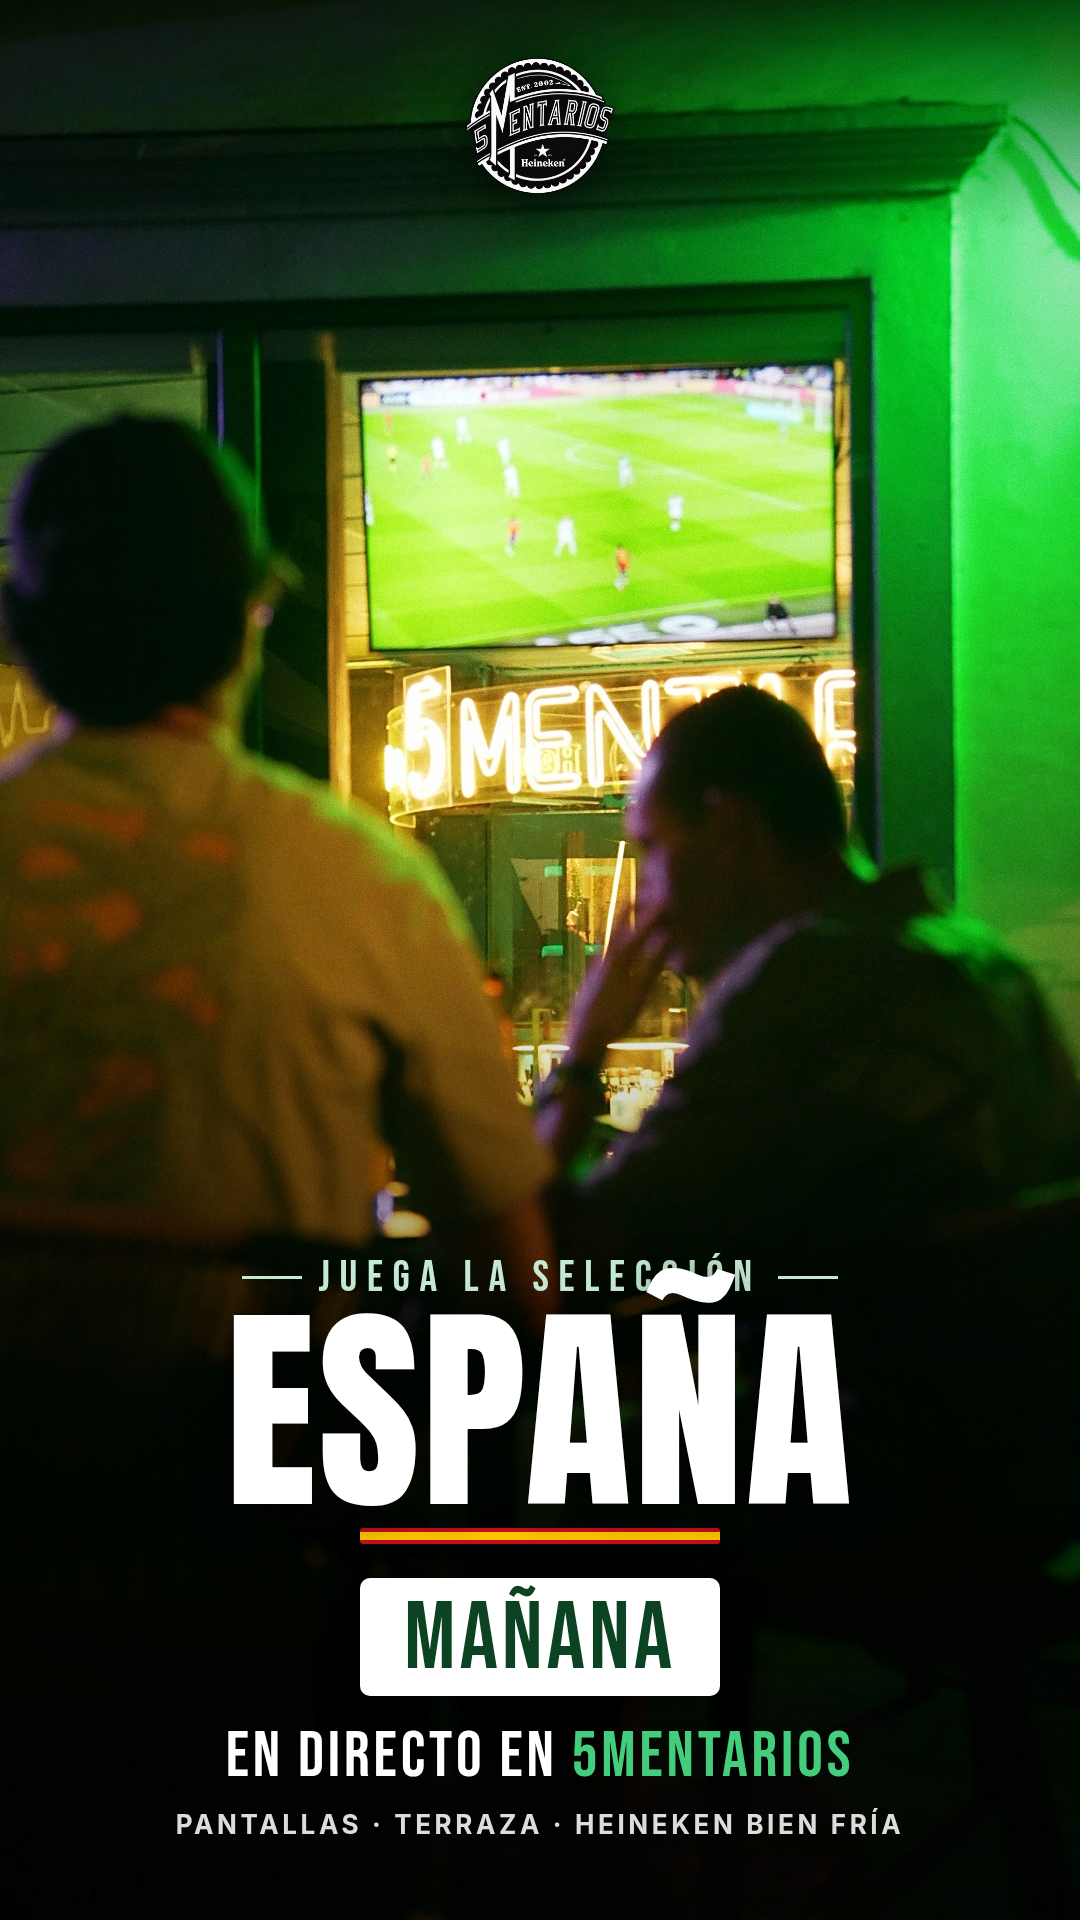
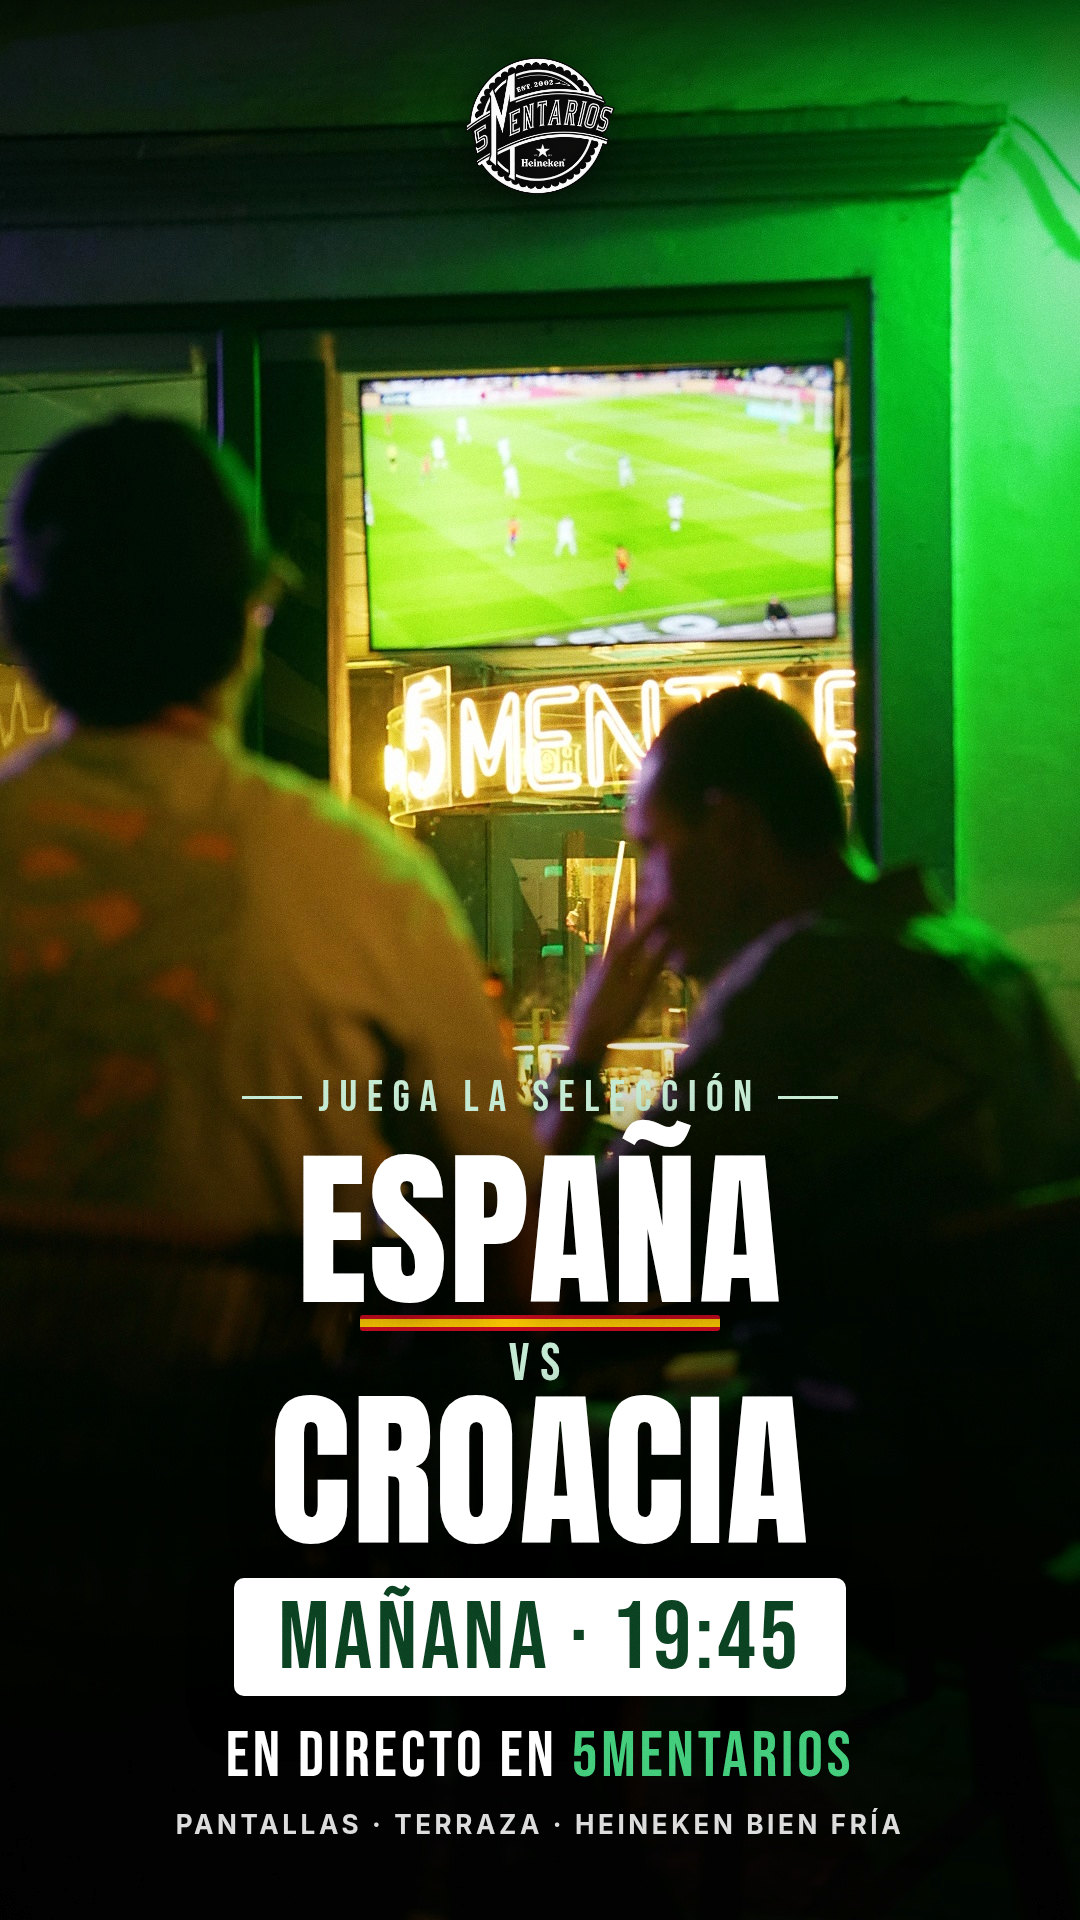
Add Croatia and 19:45 kick-off to Spain match poster
Claude-Session: https://claude.ai/code/session_01RJzBzF85Mf8EXnmYDeiEGb

Changed region(s): [[0.2139, 0.5625, 0.7944, 0.9062]]

diff --git a/posts/fotos/futbol/cartel-espana.html b/posts/fotos/futbol/cartel-espana.html
@@ -24,12 +24,16 @@
     font-family: "Bebas Neue", sans-serif; font-size: 44px; letter-spacing: .22em; color: var(--mint); }
   .kicker::before, .kicker::after { content: ""; width: 60px; height: 3px; background: currentColor; }
   body.post .kicker { font-size: 36px; margin-top: 10px; }
-  .title { font-family: "Anton", sans-serif; font-size: 220px; line-height: .9; letter-spacing: .01em; margin-top: 8px;
+  .title { font-family: "Anton", sans-serif; font-size: 170px; line-height: .9; letter-spacing: .01em; margin-top: 30px;
     text-shadow: 0 10px 40px rgba(0,0,0,.7); }
-  body.post .title { font-size: 130px; margin-top: 2px; }
-  .flag { width: 360px; height: 16px; margin: 18px auto 34px; border-radius: 3px;
+  body.post .title { font-size: 104px; margin-top: 16px; }
+  .vs { font-family: "Bebas Neue", sans-serif; font-size: 54px; line-height: 1; letter-spacing: .2em; color: var(--mint); margin: 2px 0 4px; }
+  body.post .vs { font-size: 36px; margin: 0; }
+  .t2 { margin-top: 0 !important; margin-bottom: 30px; }
+  body.post .t2 { margin-bottom: 16px; }
+  .flag { width: 360px; height: 16px; margin: 8px auto 6px; border-radius: 3px;
     background: linear-gradient(180deg, var(--red) 0 25%, var(--yellow) 25% 75%, var(--red) 75%); box-shadow: 0 6px 20px rgba(0,0,0,.5); }
-  body.post .flag { width: 260px; height: 10px; margin: 10px auto 18px; }
+  body.post .flag { width: 220px; height: 9px; margin: 4px auto 2px; }
 
   .bottom { position: absolute; left: 0; right: 0; bottom: 80px; text-align: center; z-index: 5; }
   body.post .bottom { bottom: 34px; }
@@ -50,7 +54,9 @@
     <div><span class="kicker">JUEGA LA SELECCIÓN</span></div>
     <div class="title">ESPAÑA</div>
     <div class="flag"></div>
-    <div class="when">MAÑANA</div>
+    <div class="vs">VS</div>
+    <div class="title t2">CROACIA</div>
+    <div class="when">MAÑANA · 19:45</div>
     <div class="where">EN DIRECTO EN <b>5MENTARIOS</b></div>
     <div class="perks">PANTALLAS · TERRAZA · HEINEKEN BIEN FRÍA</div>
   </div>
